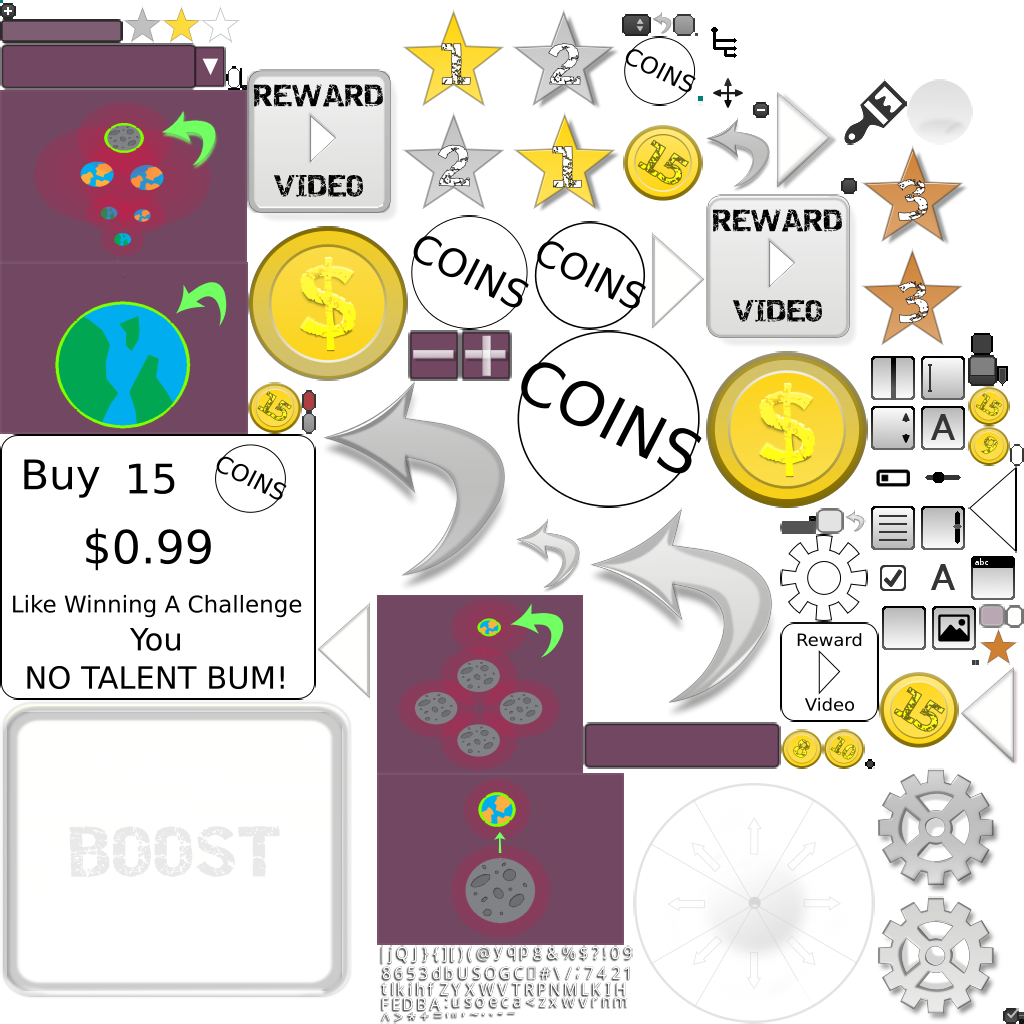
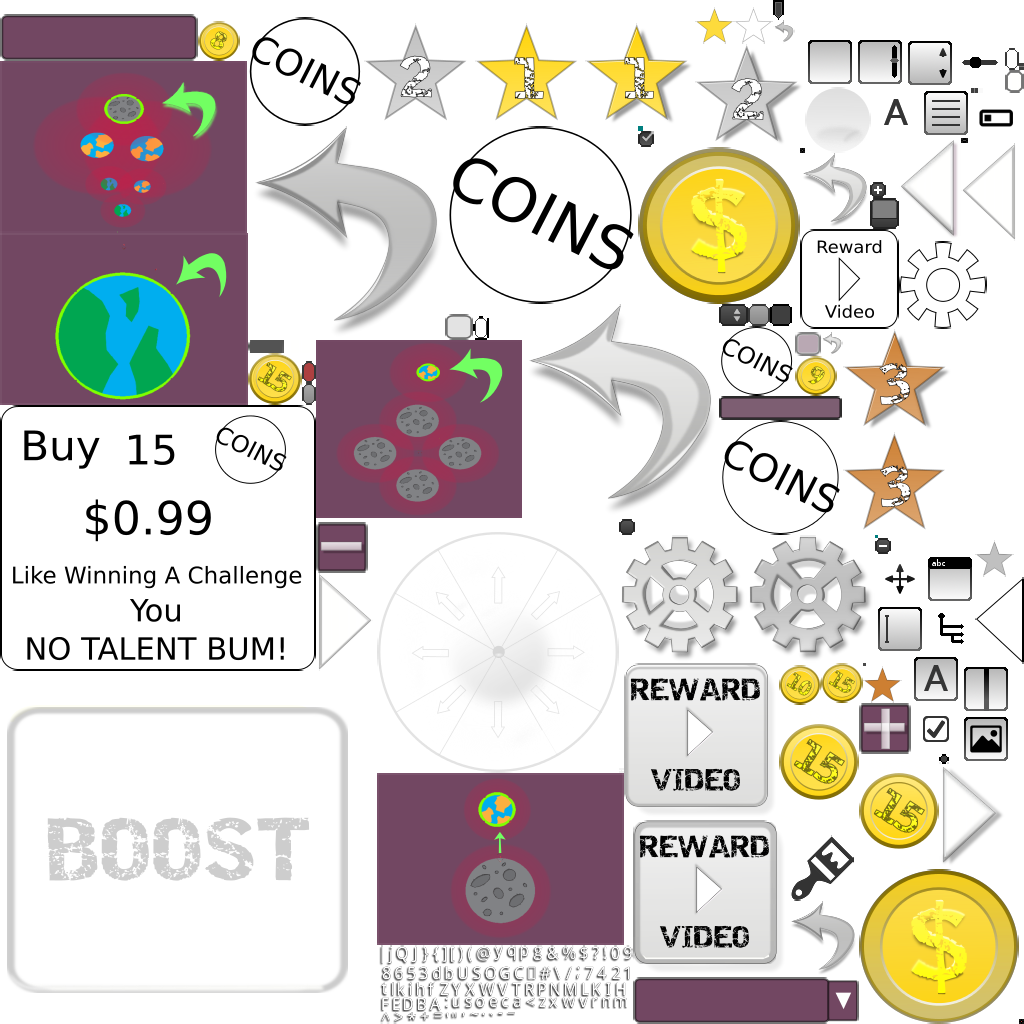
new boost button

diff --git a/core/src/com/araceinspace/Screens/INGAMEScreen.java b/core/src/com/araceinspace/Screens/INGAMEScreen.java
@@ -254,8 +254,8 @@ public class INGAMEScreen extends Screen implements EventSender{
         touchPad.setDeadzone(touchPad.getWidth()/5);
 
         boostButton = new ImageButton(skin, "boostButton");
-        boostButton.setWidth(Gdx.graphics.getWidth()/3-20);
-        boostButton.setHeight(Gdx.graphics.getWidth()/3-20);
+        boostButton.setWidth(Gdx.graphics.getWidth()/2-20);
+        boostButton.setHeight(Gdx.graphics.getWidth()/2-20);
         boostButton.setBounds(Gdx.graphics.getWidth()-15-boostButton.getWidth(), 15, boostButton.getWidth(), boostButton.getHeight());
 
         boostButtonListener = new InputListener(){
